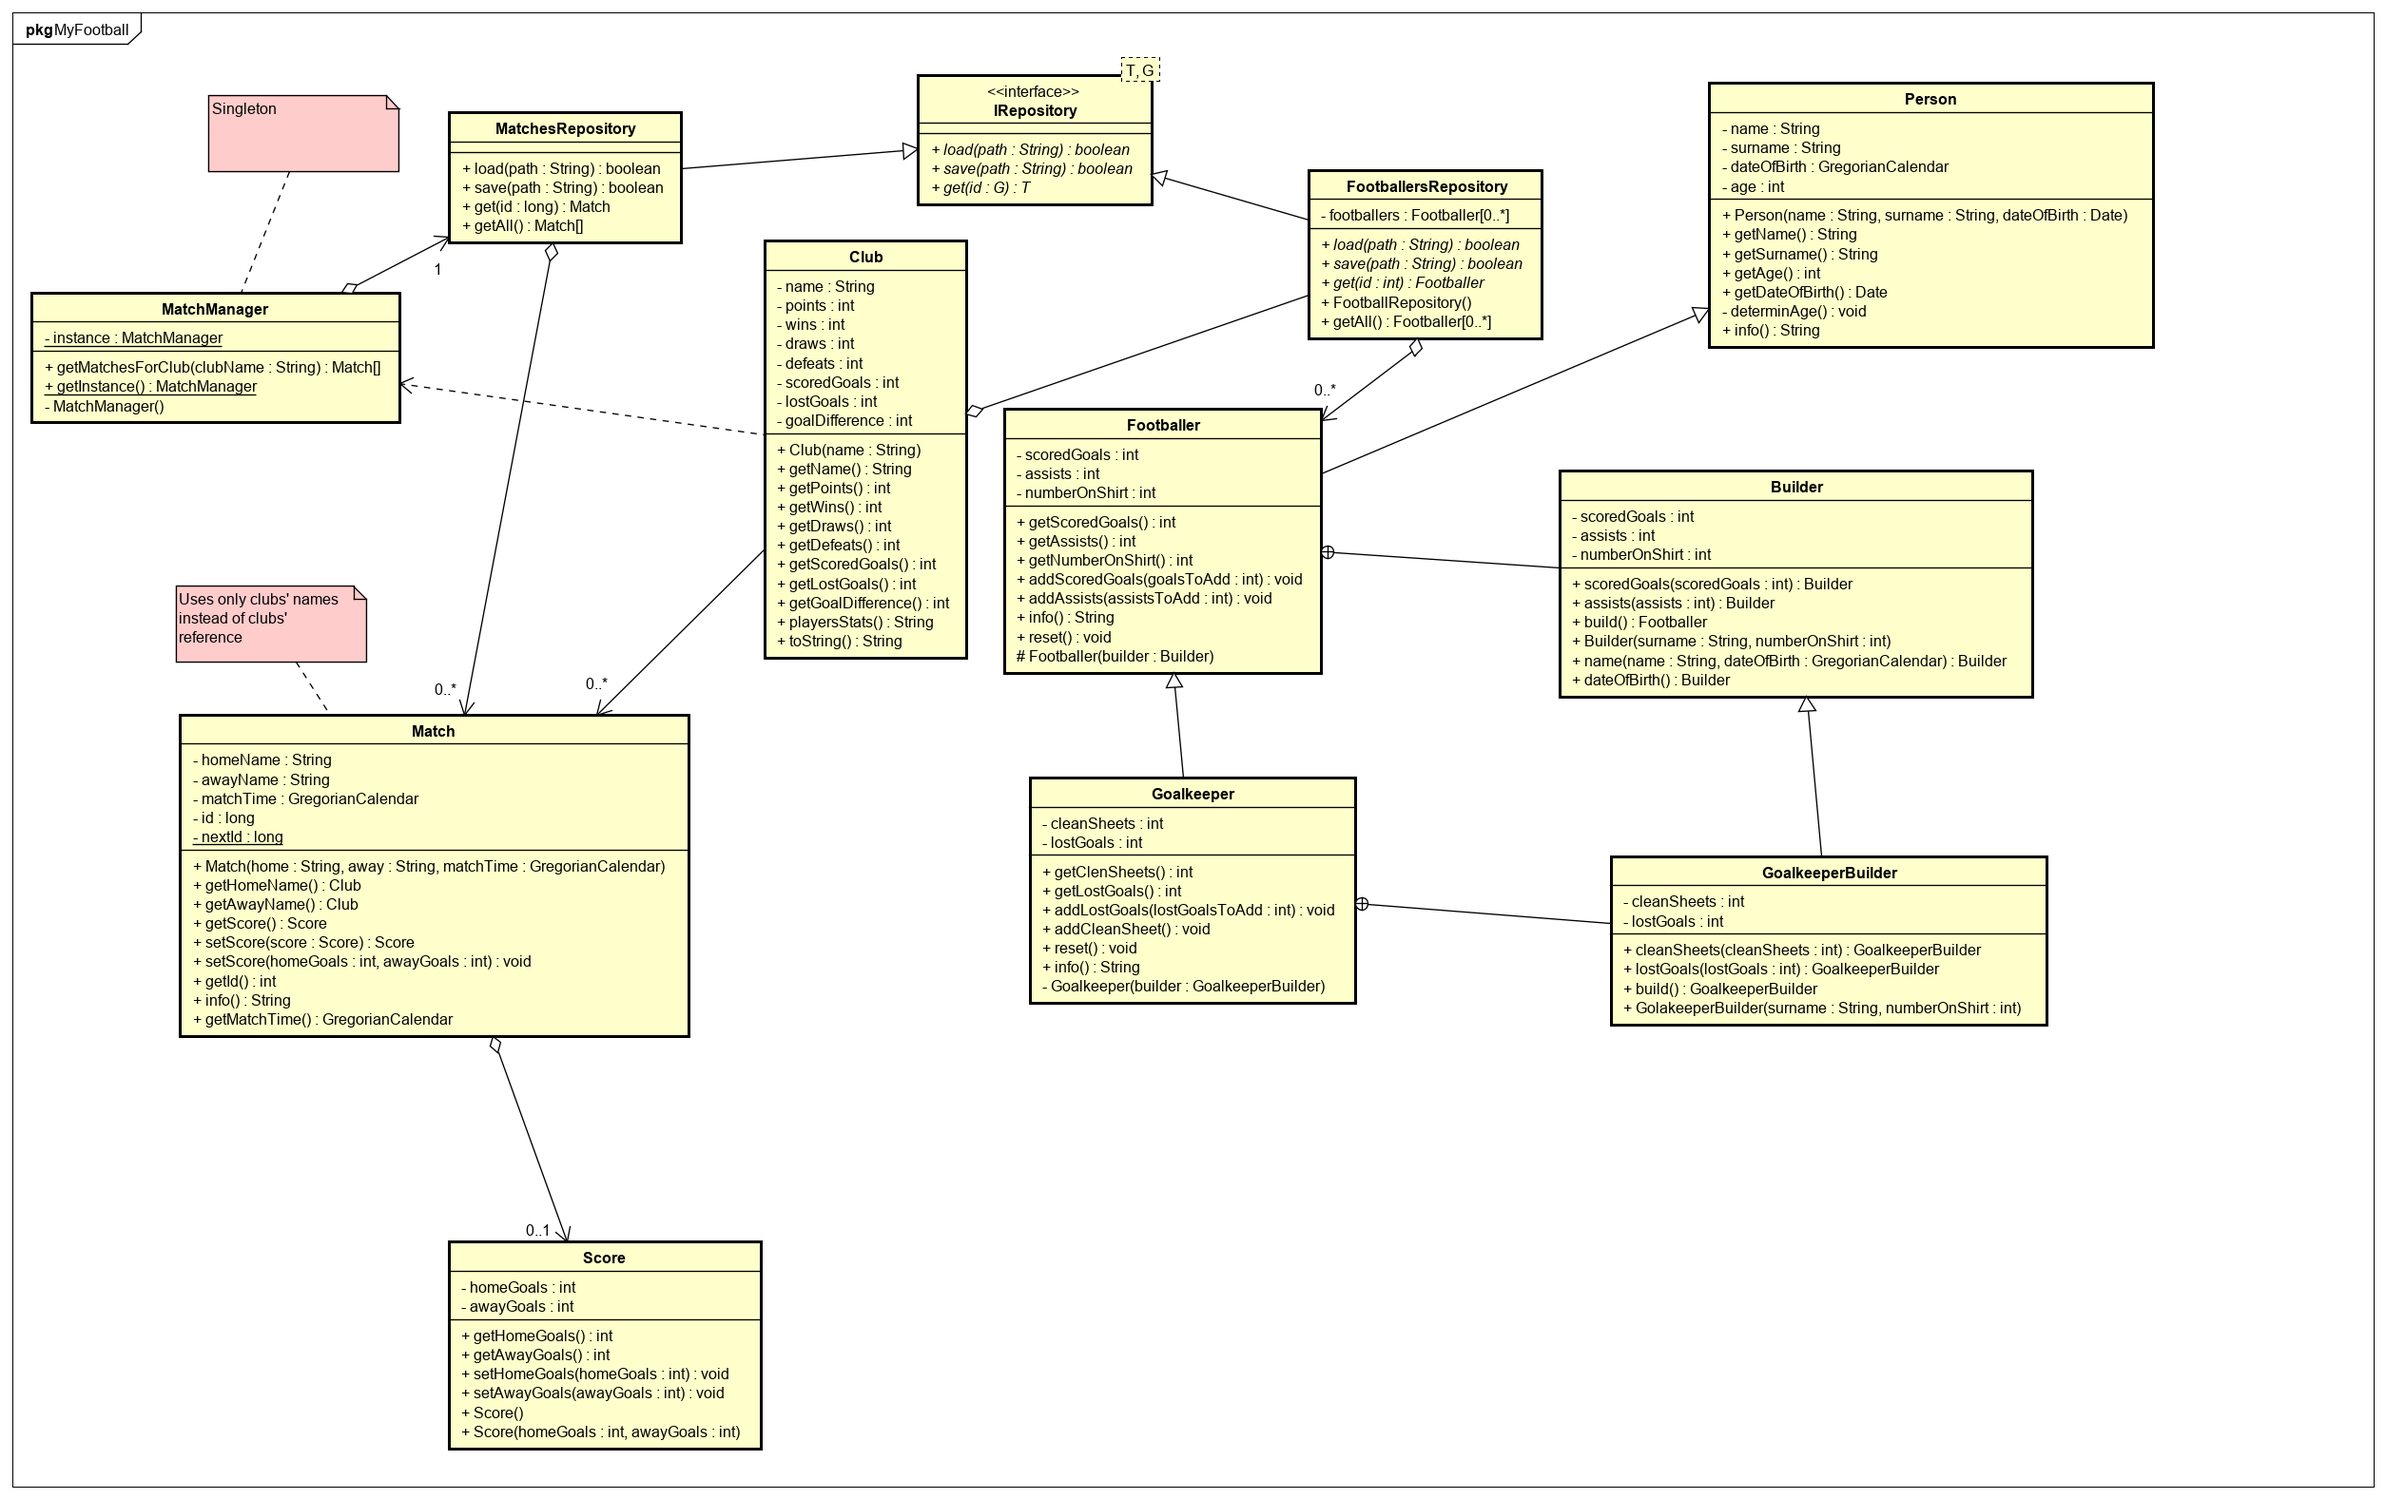
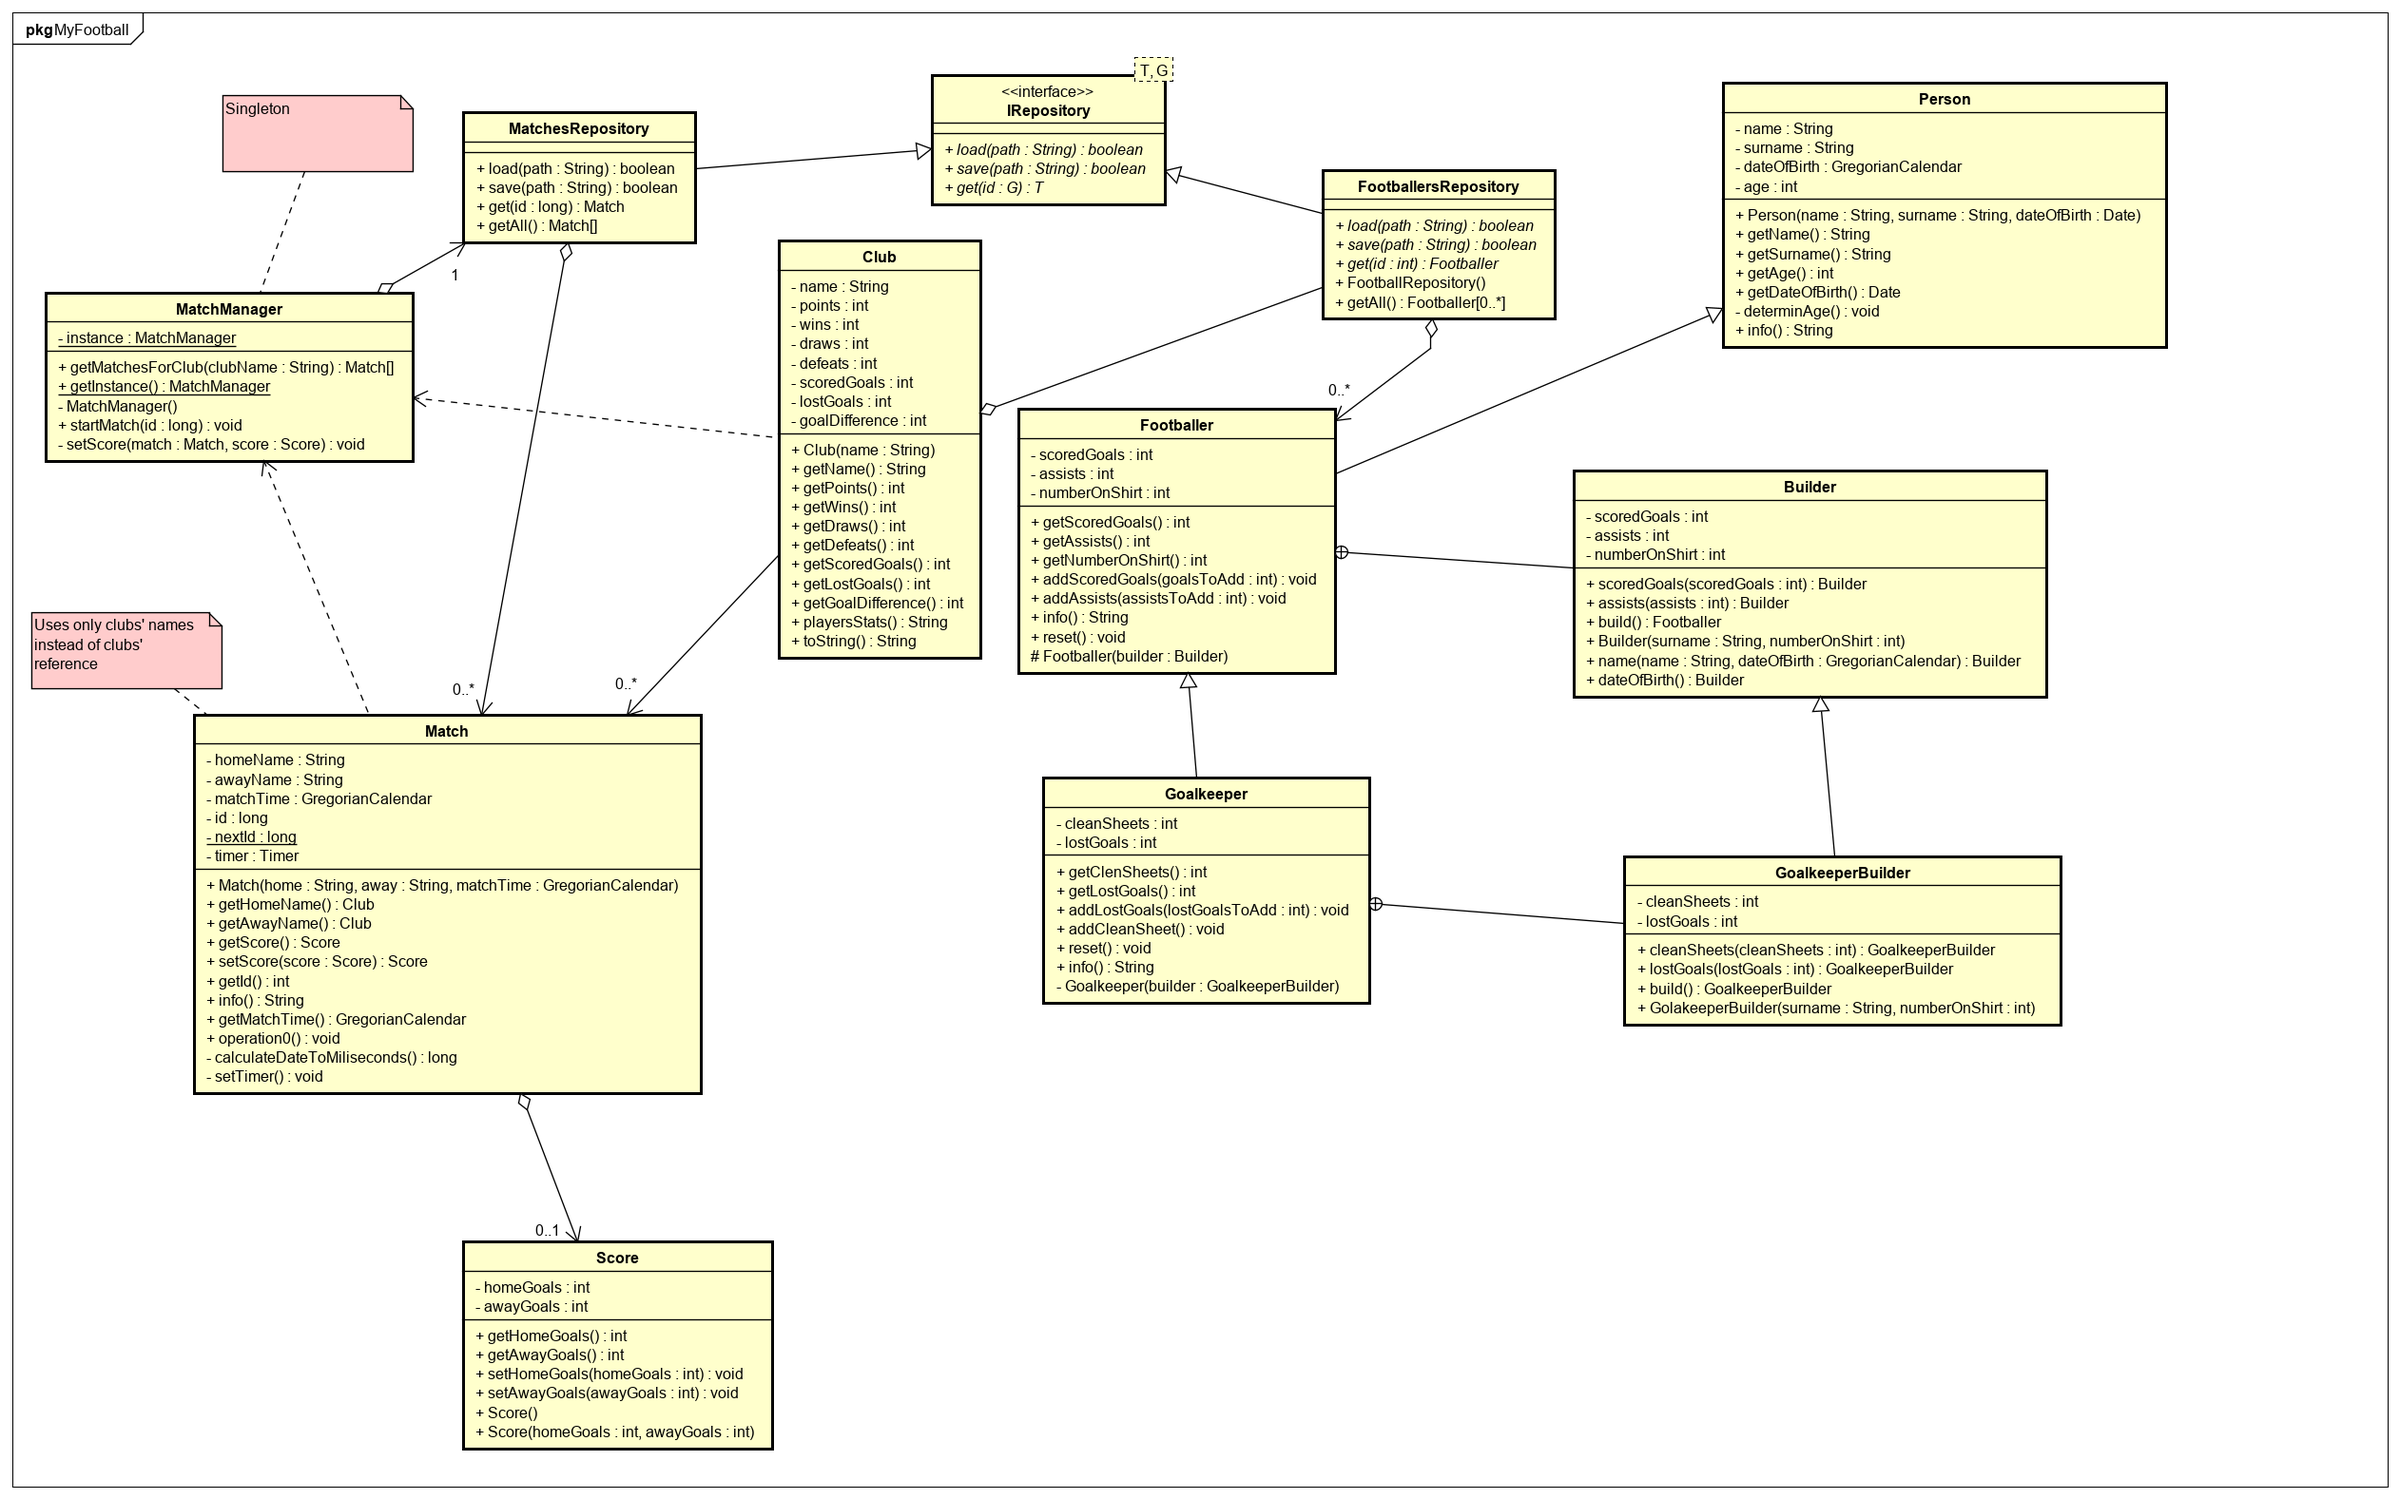
Implemented timer in match to start match

diff --git a/src/MyFootball/Match.java b/src/MyFootball/Match.java
@@ -1,7 +1,12 @@
 package MyFootball;
 
 import java.util.Calendar;
+import java.util.Date;
 import java.util.GregorianCalendar;
+import java.util.Timer;
+import java.util.TimerTask;
+
+import javax.management.timer.TimerMBean;
 
 public class Match {
 	
@@ -11,15 +16,16 @@ public class Match {
 	private long id;
 	private static long nextId = 1;
 	private Score score;
+	private Timer timer;
 	
 	public Match(String homeName, String awayName, GregorianCalendar matchTime)
 	{
-		score = null;
 		this.homeName = homeName;
 		this.awayName = awayName;
 		this.matchTime = matchTime;
 		this.id = nextId;
 		nextId++;
+		setTimer();
 	}
 	
 	public String getHomeName()
@@ -45,22 +51,16 @@ public class Match {
 	public Score getScore() {
 		return score;
 	}
-
-	public void setScore(Score score) {
-		if(score == null) score = new Score();
-		this.score = score;
-	}
 	
-	public void setScore(int homeGoals, int awayGoals) {
-		if(score == null) score = new Score();
-		this.score.setHomeGoals(homeGoals);
-		this.score.setAwayGoals(awayGoals);
+	public void setScore(Score score)
+	{
+		this.score = score;
 	}
 	
 	public String info()
 	{
 		String s = new String();
-		s += homeName + " ";
+		s += "Id number: " + id + "		" + homeName + " ";
 		if(score == null)
 		{
 			s += "- : - ";
@@ -69,7 +69,7 @@ public class Match {
 		{
 			s += score.getHomeGoals() + " : " + score.getAwayGoals();
 		}
-		s += awayName;
+		s += " " + awayName;
 		s +=  "		" + matchTime.get(Calendar.DAY_OF_MONTH) + "/" + (matchTime.get(Calendar.MONTH) + 1) + 
 				"/" + matchTime.get(Calendar.YEAR) + " " + matchTime.get(Calendar.HOUR_OF_DAY) + ":";
 		if(matchTime.get(Calendar.MINUTE) < 10)
@@ -85,6 +85,22 @@ public class Match {
 		return s;
 	}
 	
+	private long calculateDateToMiliseconds(GregorianCalendar time)
+	{
+		return matchTime.getTimeInMillis() - new GregorianCalendar().getTimeInMillis();
+	}
 	
-
+	private void setTimer()
+	{
+		if(new GregorianCalendar().before(matchTime))
+		{
+			timer = new Timer();
+			timer.schedule(new TimerTask(){
+				public void run()
+				{
+					MatchManager.getInstance().startMatch(id);
+				}
+			}, calculateDateToMiliseconds(matchTime));
+		}
+	}
 }

diff --git a/src/MyFootball/MatchesRepository.java b/src/MyFootball/MatchesRepository.java
@@ -1,4 +1,5 @@
 package MyFootball;
+import java.util.Calendar;
 import java.util.GregorianCalendar;
 import java.util.LinkedList;
 
@@ -17,8 +18,8 @@ public class MatchesRepository implements IRepository<Match, Long> {
 	public boolean load(String path) {
 		// TODO Auto-generated method stub
 		
-		matches.add(new Match("Club1", "Club2", new GregorianCalendar()));
-		matches.add(new Match("Club2", "Club3", new GregorianCalendar()));
+		matches.add(new Match("Club1", "Club2", new GregorianCalendar(2019, Calendar.FEBRUARY, 7, 19, 07, 15)));
+		matches.add(new Match("Club2", "Club3", new GregorianCalendar(2019, Calendar.FEBRUARY, 7, 18, 50, 30)));
 		matches.add(new Match("Club3", "Club4", new GregorianCalendar()));
 		matches.add(new Match("Club4", "Club1", new GregorianCalendar()));
 	

diff --git a/src/MyFootball/MatchManager.java b/src/MyFootball/MatchManager.java
@@ -1,5 +1,6 @@
 package MyFootball;
 
+import java.util.AbstractList;
 import java.util.LinkedList;
 
 public class MatchManager {
@@ -23,9 +24,9 @@ public class MatchManager {
 		return instance;
 	}
 	
-	public LinkedList<Match> getMatchesForClub(String clubName)
+	public AbstractList<Match> getMatchesForClub(String clubName)
 	{
-		LinkedList<Match> l = new LinkedList<Match>();
+		AbstractList<Match> l = new LinkedList<Match>();
 		
 		for(Match m: matches.getAll())
 		{
@@ -36,4 +37,17 @@ public class MatchManager {
 		}
 		return l;
 	}
+
+	public void startMatch(long id)
+	{
+		Match m = matches.get(id);
+		setScore(m, new Score(0, 0));
+		System.out.println(m.info());
+	}
+	
+	private void setScore(Match match, Score score) 
+	{
+		match.setScore(score);
+	}
+	
 }

diff --git a/src/MyFootballUnitTest/MatchTest.java b/src/MyFootballUnitTest/MatchTest.java
@@ -1,6 +1,8 @@
 /**
  * 
  */
+
+
 package MyFootballUnitTest;
 
 import static org.junit.Assert.*;
@@ -19,6 +21,8 @@ import MyFootball.Score;
  * @author adrian
  *
  */
+
+
 public class MatchTest {
 
 	private Match m1;
@@ -48,21 +52,4 @@ public class MatchTest {
 		assertEquals(2, m1.getScore().getHomeGoals());
 		assertEquals(1, m1.getScore().getAwayGoals());
 	}
-	
-	@Test
-	public void SetScore2Test()
-	{
-		m1.setScore(2,1);
-		assertEquals(2, m1.getScore().getHomeGoals());
-		assertEquals(1, m1.getScore().getAwayGoals());
-	}
-	
-	@Test
-	public void generatingIdTest()
-	{
-		Match m2 = new Match("", "", new GregorianCalendar());
-		assertNotEquals(m1.getId(), m2.getId());
-		
-	}
-
 }

diff --git a/src/MyFootball/Club.java b/src/MyFootball/Club.java
@@ -1,6 +1,6 @@
 package MyFootball;
 
-import java.util.LinkedList;
+import java.util.AbstractList;
 
 public class Club {
 
@@ -13,7 +13,7 @@ public class Club {
 	private int scoredGoals;
 	private int lostGoals;
 	private int goalDifference;
-	private LinkedList<Match> matches;
+	private AbstractList<Match> matches;
 	
 	//Constructor
 	public Club(String name)
@@ -80,7 +80,6 @@ public class Club {
 		return s;
 	}
 
-	
 	@Override
 	public String toString() {
 		return "Club [name=" + name + ", points=" + points + ", wins=" + wins
@@ -99,7 +98,5 @@ public class Club {
 		}
 		return s;
 	}
-	
-	
 	
 }

diff --git a/src/MyFootball/TestMain.java b/src/MyFootball/TestMain.java
@@ -27,8 +27,10 @@ public class TestMain {
 		System.out.println(m1.info());
 		*/
 		
-		Club club1 = new Club("Club2");
-		System.out.println(club1.matchesInfo());
+		Club club2 = new Club("Club2");
+		Club club1 = new Club("Club1");
+		System.out.println(club1.playersStats());
+		System.out.println(club1.playersStats());
 
 	}
 
